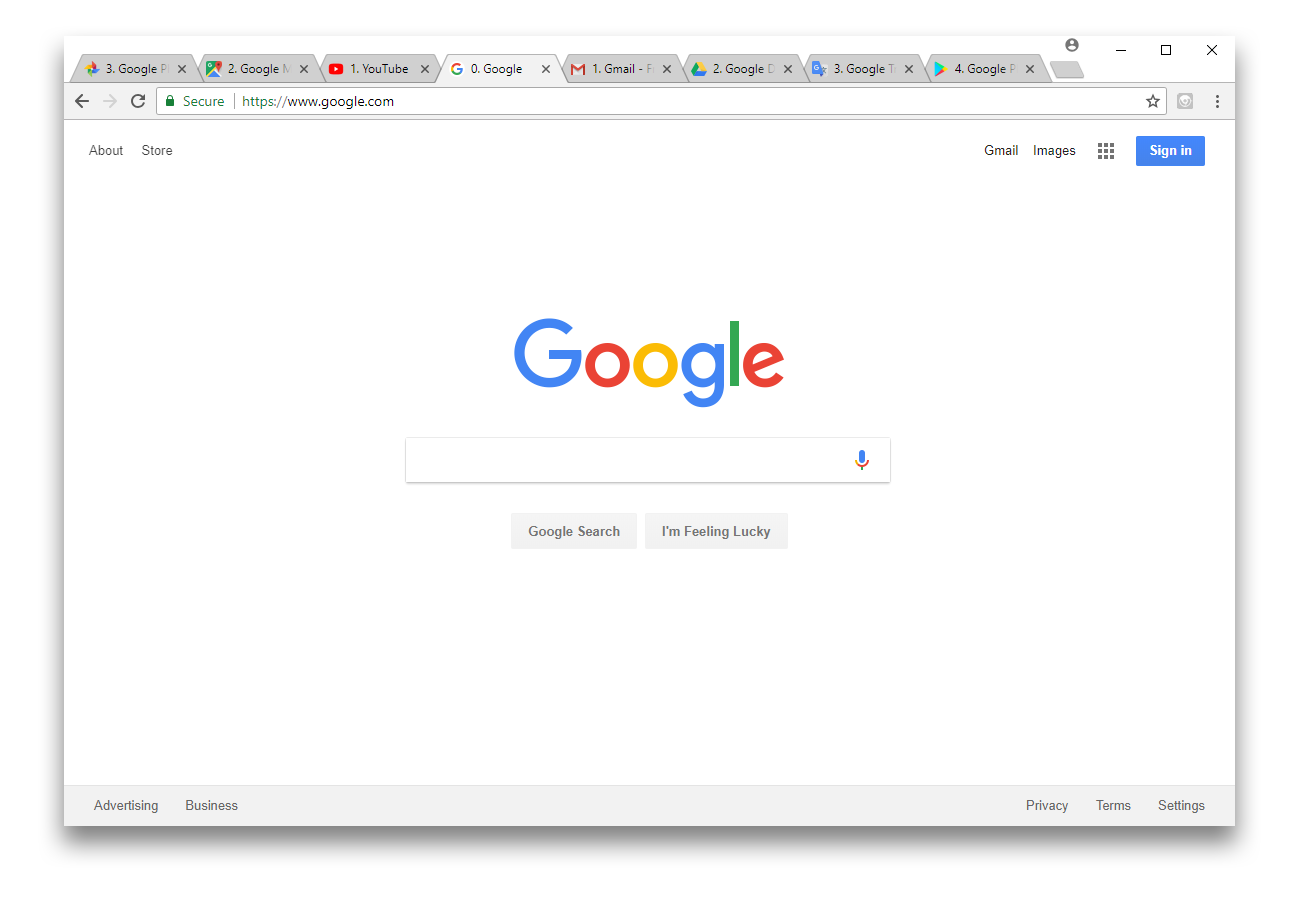
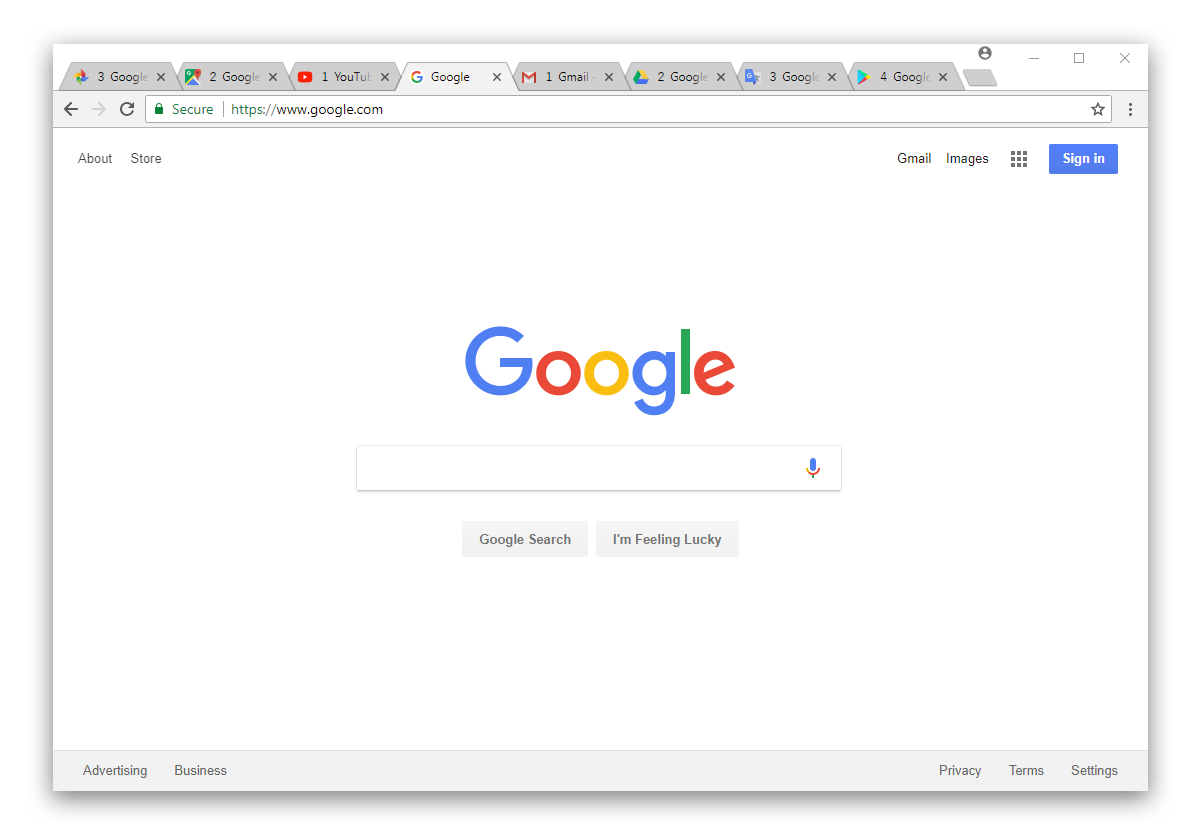
Updated README and docs

diff --git a/chrome/src/options/i18n.js b/chrome/src/options/i18n.js
@@ -27,7 +27,7 @@ this.i18n = {
             <td>MacCtrl+2</td>\
         </tr>\
         <tr>\
-            <td>Next Tab \<num\></td>\
+            <td>Next Tab &lt;num&gt;</td>\
             <td>Ctrl+num</td>\
             <td>MacCtrl+num</td>\
         </tr>\
@@ -47,7 +47,7 @@ this.i18n = {
             <td>MacCtrl+Shift+2</td>\
         </tr>\
         <tr>\
-            <td>Previous Tab \<num\></td>\
+            <td>Previous Tab &lt;num&gt;</td>\
             <td>Ctrl+Shift+num</td>\
             <td>MacCtrl+Shift+num</td>\
         </tr>\

diff --git a/chrome/src/options/manifest.js b/chrome/src/options/manifest.js
@@ -42,6 +42,4 @@ this.manifest = {
             ]
         }
     ],
-    "alignment": [
-    ]
 };

diff --git a/README.md b/README.md
@@ -2,7 +2,7 @@
 
 Chrome extension for switching to a tab n-places from current tab. For example `Ctrl+3` will switch to the tab that is 3 tabs ahead (right) of your current tab. Similarly `Ctrl+Shift+2` will switch to the tab that is 2 tabs behind (left) of your current tab.
 
-By default, Relative Tabs will modify tabs to include its relative position from the current active tab. This can be disabled in extension options `chrome://extensions/`.
+Relative Tabs can modify tabs to include its relative position from the current active tab. This can be toggled in extension options `chrome://extensions/`.
 
 ![tab numbering](docs/chrome_tab_numbering.png)
 
@@ -29,5 +29,6 @@ Since Chrome extensions are limited to 4 keyboard shortcuts, the rest need to be
 
 ## Settings
 
-- Toggle tab numbering (enabled by default)
 - Set keyboard shortcuts
+- Toggle tab numbering
+- Multiple styles for tab numbering
